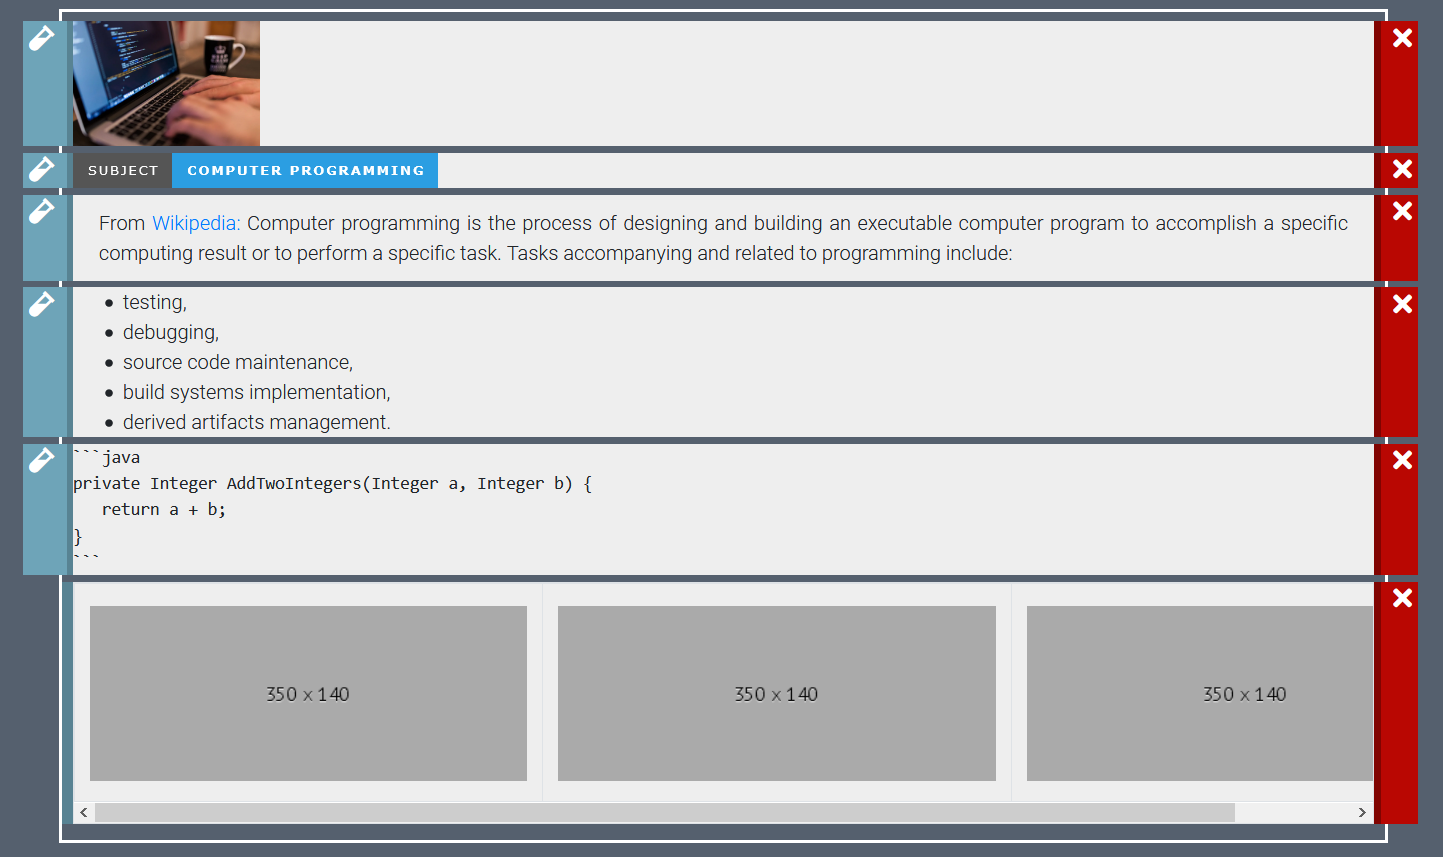
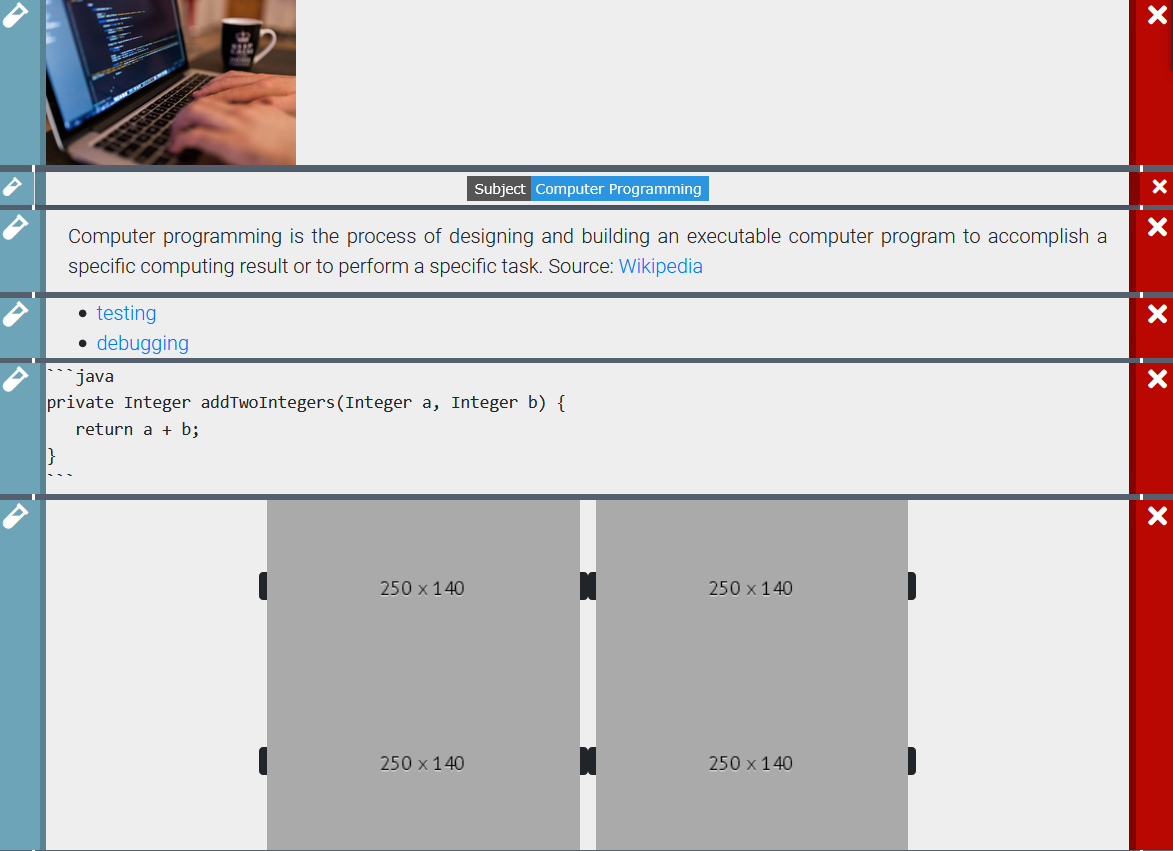
Update demonstration/updates/about

diff --git a/docusaurus.config.js b/docusaurus.config.js
@@ -10,7 +10,7 @@ module.exports = {
   themeConfig: {
     sidebarCollapsible: false,
     navbar: {
-      title: 'EzGitDoc-docs'
+      title: 'EzGitDoc - docs'
     },
     footer: {
       style: 'dark',

diff --git a/docs/doc2_demonstration.md b/docs/doc2_demonstration.md
@@ -4,97 +4,29 @@ title: Demonstration
 slug: /demonstration
 ---
 
+import useBaseUrl from '@docusaurus/useBaseUrl';
+
 <p align="justify">
 With EzGitDoc it's really simple and quick to create document for repository. Below you will find single example on how that process can look like. Used elements: image, badge(<a href="https://shields.io/">Shields.io</a>), text, list, code, table with images.
 </p>
 
 ### 1. Design prototype
 
-![Demonstration(image 1)](../static/img/demonstration/d01.PNG)
+<p align="center">
+<img src={useBaseUrl('img/demonstration/d01.PNG')} alt="EzGitDoc Demonstration - 1" height="450px"/>
+</p>
 
 ### 2. Get code
 
 ````git
-<p align="left"><img src="https://cdn.pixabay.com/photo/2015/04/20/13/17/work-731198_1280.jpg" height="100" alt="Banner image"/></p>
+<p align="left"><img src="https://cdn.pixabay.com/photo/2015/04/20/13/17/work-731198_1280.jpg" alt="programming - banner" width="200"/></p>
 
-<img src="https://img.shields.io/badge/Subject-Computer%20Programming-red?color=2B9EE2&style=for-the-badge" alt="to do: add alt text"/>
+<img src="https://img.shields.io/badge/Subject-Computer%20Programming-red?color=2B95E2&style=flat-square" alt="to do: add alt text"/>
 
-<p align="justify">From <a href="https://en.wikipedia.org/wiki/Computer_programming" draggable="false">Wikipedia:</a> Computer programming is the process of designing and building an executable computer program to accomplish a specific computing result or to perform a specific task. Tasks accompanying and related to programming include: </p>
+<p align="justify">Computer programming is the process of designing and building an executable computer program to accomplish a specific computing result or to perform a specific task. Source: <a href="https://en.wikipedia.org/wiki/Computer_programming" draggable="false">Wikipedia</a></p>
 
-- testing, 
-- debugging,
-- source code maintenance,
-- build systems implementation,
-- derived artifacts management.
-
-```java
-private Integer AddTwoIntegers(Integer a, Integer b) {
-   return a + b;
-}
-```
-
-| | | |
-| :---: | :---: | :---: |
-| <img src="https://place-hold.it/350x140" alt="#toadd" width="350" height="140"/> | <img src="https://place-hold.it/350x140" alt="#toadd" width="350" height="140"/> | <img src="https://place-hold.it/350x140" alt="#toadd" width="350" height="140"/> |
-<!-- For image table, it's highly recommended to have the same resolution images. 
- To find best results(no stretches, equal cells), both axis should be adjusted manually. -->
-
-Template generated using <a href="https://github.com/trolit/EzGitDoc">EzGitDoc</a>
-
-````
-
-### 3. Preview outcome
-
-<code>
-<p align="left"><img src="https://cdn.pixabay.com/photo/2015/04/20/13/17/work-731198_1280.jpg" height="100" alt="Banner image"/></p>
-
-<img src="https://img.shields.io/badge/Subject-Computer%20Programming-red?color=2B9EE2&style=for-the-badge" alt="to do: add alt text"/>
-
-<p align="justify">From <a href="https://en.wikipedia.org/wiki/Computer_programming" draggable="false">Wikipedia:</a> Computer programming is the process of designing and building an executable computer program to accomplish a specific computing result or to perform a specific task. Tasks accompanying and related to programming include: </p>
-
-- testing, 
-- debugging,
-- source code maintenance,
-- build systems implementation,
-- derived artifacts management.
-
-```java
-private Integer AddTwoIntegers(Integer a, Integer b) {
-   return a + b;
-}
-```
-
-| | | |
-| :---: | :---: | :---: |
-| <img src="https://place-hold.it/350x140" alt="#toadd" width="350" height="140"/> | <img src="https://place-hold.it/350x140" alt="#toadd" width="350" height="140"/> | <img src="https://place-hold.it/350x140" alt="#toadd" width="350" height="140"/> |
-<!-- For image table, it's highly recommended to have the same resolution images. 
- To find best results(no stretches, equal cells), both axis should be adjusted manually. -->
-
-Template generated using <a href="https://github.com/trolit/EzGitDoc">EzGitDoc</a>
-</code>
-
-### 4. Adjust outcome & commit :)
-
-```
-Changes:
-- increased banner image size 
-- removed subject part from label
-- fixed function name
-- filled in images in table (didn't have to change default 340x140 scaling as they fit)
-```
-
-<code>
-<p align="left"><img src="https://cdn.pixabay.com/photo/2015/04/20/13/17/work-731198_1280.jpg" height="170" alt="Banner image"/></p>
-
-<img src="https://img.shields.io/badge/-Computer%20Programming-red?color=2B9EE2&style=for-the-badge" alt="to do: add alt text"/>
-
-<p align="justify">From <a href="https://en.wikipedia.org/wiki/Computer_programming" draggable="false">Wikipedia:</a> Computer programming is the process of designing and building an executable computer program to accomplish a specific computing result or to perform a specific task. Tasks accompanying and related to programming include: </p>
-
-- testing, 
-- debugging,
-- source code maintenance,
-- build systems implementation,
-- derived artifacts management.
+- <a href="https://en.wikipedia.org/wiki/Software_testing">testing</a>
+- <a href="https://en.wikipedia.org/wiki/Debugging">debugging</a>
 
 ```java
 private Integer addTwoIntegers(Integer a, Integer b) {
@@ -102,11 +34,32 @@ private Integer addTwoIntegers(Integer a, Integer b) {
 }
 ```
 
-| | | |
-| :---: | :---: | :---: |
-| <img src="https://cdn.pixabay.com/photo/2019/06/17/19/48/source-4280758_1280.jpg" alt="Code demo (1)" width="350" height="140"/> | <img src="https://cdn.pixabay.com/photo/2015/09/17/17/25/code-944499_1280.jpg" alt="Code demo (2)" width="350" height="140"/> | <img src="https://cdn.pixabay.com/photo/2016/11/30/20/58/programming-1873854_1280.png" alt="Code demo (3)" width="350" height="140"/> |
-<!-- For image table, it's highly recommended to have the same resolution images. 
- To find best results(no stretches, equal cells), both axis should be adjusted manually. -->
+<p align="center">
+<img src="https://place-hold.it/250x140" alt="alt text" width="250" height="140"/> 
+<img src="https://place-hold.it/250x140" alt="alt text" width="250" height="140"/> 
+<br/> 
+<img src="https://place-hold.it/250x140" alt="alt text" width="250" height="140"/> 
+<img src="https://place-hold.it/250x140" alt="alt text" width="250" height="140"/> 
+</p>
 
-Template generated using <a href="https://github.com/trolit/EzGitDoc">EzGitDoc</a>
-</code>
+Template created on 7/10/2020 <br/> in <a href="https://github.com/trolit/EzGitDoc">EzGitDoc</a>
+````
+
+### 3. Preview outcome
+
+<p align="center">
+<img src={useBaseUrl('img/demonstration/d02.PNG')} alt="EzGitDoc Demonstration - 2" height="450px"/>
+</p>
+
+### 4. Adjust & commit :)
+
+```
+Changes:
+- increased banner image size 
+- removed subject part from badge
+- filled in images in table and reduced their width
+```
+
+<p align="center">
+<img src={useBaseUrl('img/demonstration/d03.PNG')} alt="EzGitDoc Demonstration - 3" height="450px"/>
+</p>

diff --git a/docs/doc0_about.md b/docs/doc0_about.md
@@ -4,6 +4,12 @@ title: About
 slug: /
 ---
 
+import useBaseUrl from '@docusaurus/useBaseUrl';
+
+<p align="center">
+<img src={useBaseUrl('img/favicon.png')} alt="EzGitDoc Documentation - logo" height="180px"/>
+</p>
+
 <p align="justify">
 EzGitDoc is WYSIWYG tool designed to improve Git documentation experience. It allows to generate <code>*.md</code> file structure within projected template at <a href="https://trolit.github.io/EzGitDoc/"><em>https://trolit.github.io/EzGitDoc/</em></a>. You don't need to install anything as the project is setup and ready to use on github-pages. Every element's data can be modified after rendering it on page(except table of images in it's current). EzGitDoc leaves you opportunity to make prototype of your document and fill in data, which later only needs to be polished, reducing the risk of problems and necessity to fight with searching cause of element(s) not being rendered as expected.
 </p>
@@ -65,11 +71,20 @@ Following the first advantage it's a lot faster to create element structure givi
 ```
 Copyright (c) 2020 Paweł Idzikowski
 
-Permission is hereby granted, free of charge, to any person obtaining a copy of this software and associated documentation files (the "Software"), to deal in the Software without restriction, including without limitation the rights to use, copy, modify, merge, publish, distribute, sublicense, and/or sell copies of the Software, and to permit persons to whom the Software is furnished to do so, subject to the following conditions:
+Permission is hereby granted, free of charge, to any person obtaining a copy of this software and 
+associated documentation files (the "Software"), to deal in the Software without restriction, 
+including without limitation the rights to use, copy, modify, merge, publish, distribute, 
+sublicense, and/or sell copies of the Software, and to permit persons to whom the Software 
+is furnished to do so, subject to the following conditions:
 
-The above copyright notice and this permission notice shall be included in all copies or substantial portions of the Software.
+The above copyright notice and this permission notice shall be included in all copies or 
+substantial portions of the Software.
 
-THE SOFTWARE IS PROVIDED "AS IS", WITHOUT WARRANTY OF ANY KIND, EXPRESS OR IMPLIED, INCLUDING BUT NOT LIMITED TO THE WARRANTIES OF MERCHANTABILITY, FITNESS FOR A PARTICULAR PURPOSE AND NONINFRINGEMENT. IN NO EVENT SHALL THE AUTHORS OR COPYRIGHT HOLDERS BE LIABLE FOR ANY CLAIM, DAMAGES OR OTHER LIABILITY, WHETHER IN AN ACTION OF CONTRACT, TORT OR OTHERWISE, ARISING FROM, OUT OF OR IN CONNECTION WITH THE SOFTWARE OR THE USE OR OTHER DEALINGS IN THE SOFTWARE. 
+THE SOFTWARE IS PROVIDED "AS IS", WITHOUT WARRANTY OF ANY KIND, EXPRESS OR IMPLIED, INCLUDING 
+BUT NOT LIMITED TO THE WARRANTIES OF MERCHANTABILITY, FITNESS FOR A PARTICULAR PURPOSE AND 
+NONINFRINGEMENT. IN NO EVENT SHALL THE AUTHORS OR COPYRIGHT HOLDERS BE LIABLE FOR ANY CLAIM, 
+DAMAGES OR OTHER LIABILITY, WHETHER IN AN ACTION OF CONTRACT, TORT OR OTHERWISE, ARISING FROM, 
+OUT OF OR IN CONNECTION WITH THE SOFTWARE OR THE USE OR OTHER DEALINGS IN THE SOFTWARE. 
 ```
 
 </small>

diff --git a/docs/doc6_updates.md b/docs/doc6_updates.md
@@ -4,6 +4,24 @@ title: Updates
 slug: /updates
 ---
 
+### v1.7.3 (07.10.2020) 
+
+- Removed hardcoded URL for image table generation.
+- Extended credits with date.
+- Implemented update option for Image Table - change all images sizes at once.
+- Minor createHeader() function code improvement.
+- Implemented new table options: kbd and linked kbd.
+- Changed color for active list group item.
+- Moved h/image/table elements previews to badge with icon.
+- Refactored ezLogicTranslator.js file.
+- Fixed shields.io default badge: plastic => flat.
+- Moved docs button near reset.
+- Added reference to GitHub repository through icon in the sidebar.
+- Updated tool logo.
+- Fixed naming convention Label => Badge.
+- Removed documentation from EzGitDoc tool page.
+- Fixed missing ending slash for element: image.
+
 ### v1.7.2 (02.10.2020)
 
 - removed from master branch quickstart images except gif. <br/>
